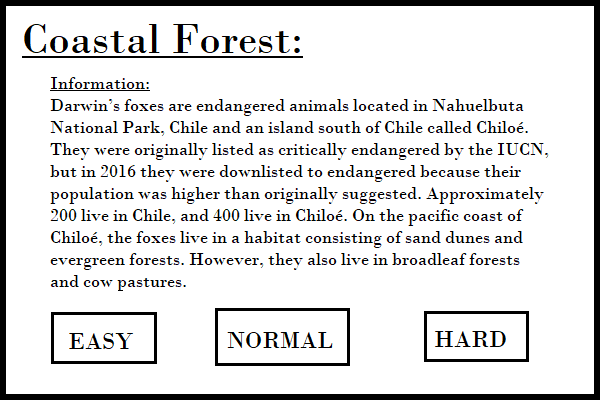
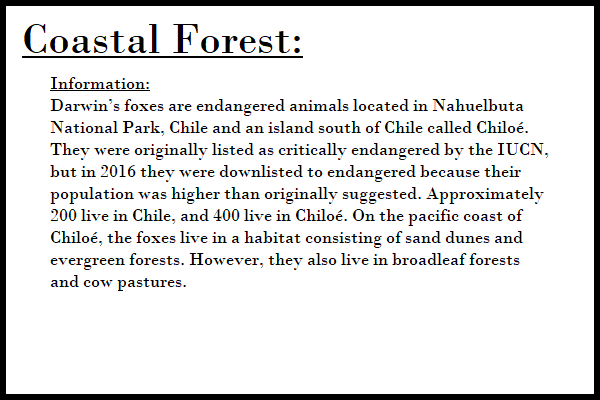
Better looking buttons

diff --git a/forestInfo.py b/forestInfo.py
@@ -1,6 +1,7 @@
 import pygame, sys
 from pygame.locals import *
 from colors import *
+from EnvironmentGame import button
 
 def forest():
     img = pygame.image.load("coastalForest.png")
@@ -20,6 +21,13 @@ def forest():
     # infobox.center(0,0)
 
     gameDisplay.blit(infobox, rect)
+
+    button("EASY", 270, 415, 110, 50, GREY_DARK, GREY_LIGHT, action = None)
+    pygame.draw.rect(gameDisplay, BLACK, (270, 415, 110, 50), 2)
+    button("NORMAL", 445, 415, 110, 50, GREY_DARK, GREY_LIGHT, action = None)
+    pygame.draw.rect(gameDisplay, BLACK, (445, 415, 110, 50), 2)
+    button("HARD", 620, 415, 110, 50, GREY_DARK, GREY_LIGHT, action = None)
+    pygame.draw.rect(gameDisplay, BLACK, (620, 415, 110, 50), 2)
 # def text_to_screen(screen, text, x, y, size = 50, color = (200, 0, 0), font_type = "data/fonts/orecrusherexpand.ttf"):
 #     # try:
 #     text = str(text)

diff --git a/map.py b/map.py
@@ -1,6 +1,6 @@
 import pygame, sys
 from pygame.locals import *
-from infotest import forest
+from forestInfo import forest
 
 img = pygame.image.load("EnvironmentGameMap.png").convert()
 
@@ -40,7 +40,6 @@ def circle():
     # if (247 > mouse[0] > 253) and (502 > mouse[1] > 508):
     if (253 > mouse[0] > 247) and (508 > mouse[1] > 502):
         pygame.draw.circle(gameDisplay, (RED), (250, 505), 12)
-        print("sdlf jpaosejfa;kdsa")
         # pygame.draw.circle.set_alpha((5,5))
         # dotGone = dot.get_at((0,0))
         # dot.set_colorkey(dotGone)

diff --git a/colors.py b/colors.py
@@ -9,5 +9,7 @@ GREEN2 = (0, 80, 0)
 WHITE = (255, 255, 255)
 BLACK = (0, 0, 0)
 RED = (255, 0, 0)
+GREY_LIGHT = (224, 224, 224)
+GREY_DARK = (192, 192, 192)
 
 gameDisplay = pygame.display.set_mode((display_width, display_height))

diff --git a/easybutton.py b/easybutton.py
@@ -1,3 +1,6 @@
 import pygame, sys
 from pygame.locals import *
 from colors import *
+from EnvironmentGame import button
+
+button("EASY", 300, 400, 100, 50, GREY_DARK, GREY_LIGHT, action = None)
